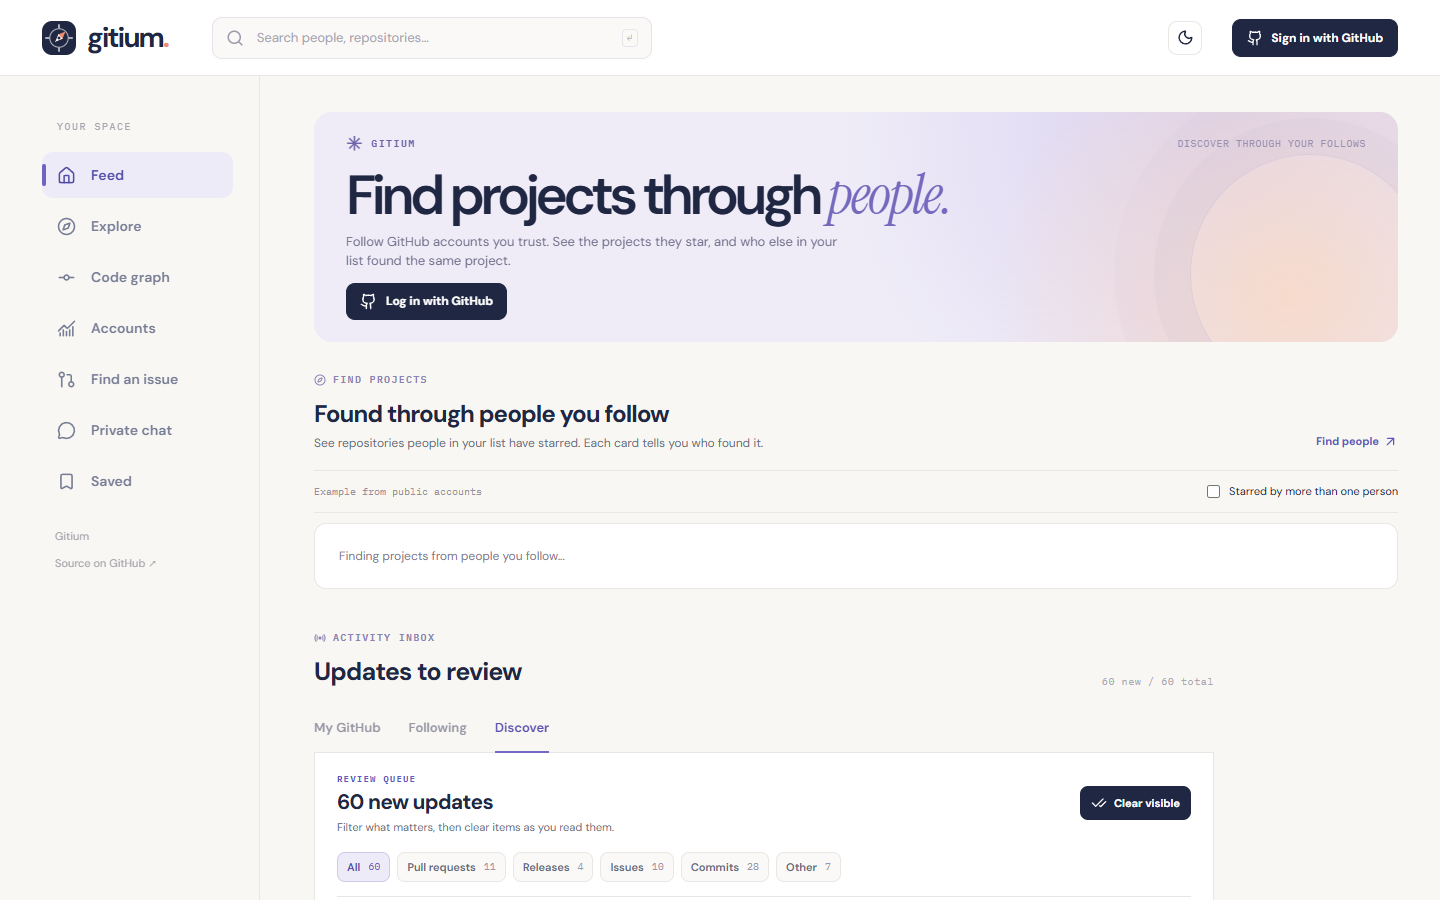
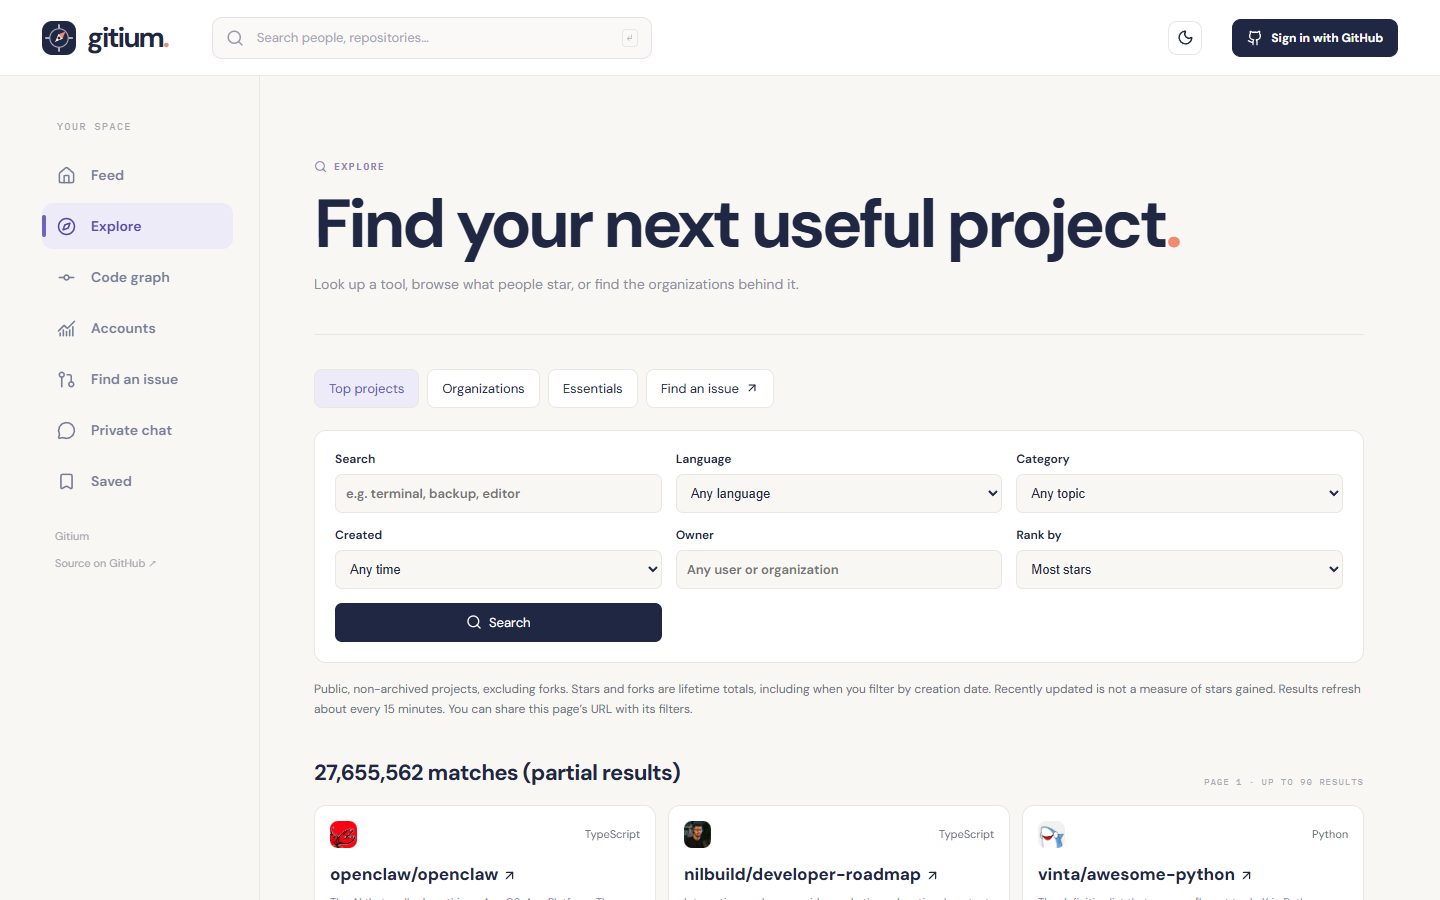
Update Gitium discovery feature and preview

diff --git a/index.html b/index.html
@@ -60,7 +60,7 @@
           <a class="project-card" href="clix/" aria-label="Open CLIx command reference"><div class="project-visual clix-visual"><span class="clix-big">&gt;_</span><div class="clix-lines mono"><span>$ find a command</span><span>$ read an example</span><span class="red">$ keep moving_</span></div><span class="visual-corner mono">IN THIS SITE</span></div><div class="project-body"><span class="project-type mono">COMMAND REFERENCE</span><h3>CLIx <span>↗</span></h3><p>I wanted one place to search commands and examples. CLIx is the reference I ended up building.</p><div class="project-tags mono"><span>COMMANDS</span><span>GUIDES</span></div></div></a>
           <a class="project-card" href="https://github.com/root-Manas/macaron" target="_blank" rel="noopener noreferrer"><div class="project-visual"><video autoplay muted loop playsinline preload="metadata"><source src="public/assets/Macaron.webm" type="video/webm"></video></div><div class="project-body"><span class="project-type mono">RECON</span><h3>Macaron <span>↗</span></h3><p>A Go tool that brings several recon steps into one workflow.</p><div class="project-tags mono"><span>GO</span><span>RECON</span></div></div></a>
           <a class="project-card" href="https://github.com/root-Manas/Relaydeck" target="_blank" rel="noopener noreferrer"><div class="project-visual"><img src="public/assets/relaydeck-preview.png?v=2" alt="Relaydeck dark local dashboard preview" loading="lazy" width="1200" height="600"></div><div class="project-body"><span class="project-type mono">DISCORD BOT</span><h3>Relaydeck <span>↗</span></h3><p>I rebuilt Tweecord as a bot for RSS, GitHub releases, Bluesky, and X with your own API access. Slash commands manage sources and channels; the local dashboard handles API settings and delivery history.</p><div class="project-tags mono"><span>DISCORD</span><span>NODE.JS</span><span>FEEDS</span></div></div></a>
-          <a class="project-card" href="https://gitium.vercel.app" target="_blank" rel="noopener noreferrer"><div class="project-visual"><img src="public/assets/gitium-preview.png" alt="Gitium project discovery preview" loading="lazy" width="1200" height="600"></div><div class="project-body"><span class="project-type mono">GITHUB SOCIAL APP · LIVE</span><h3>Gitium <span>↗</span></h3><p>I built Gitium to find repos through people I follow. You can import stars, explore commit graphs, compare account scores, find issues to contribute to, and chat in private rooms.</p></div></a>
+          <a class="project-card" href="https://gitium.vercel.app/explore" target="_blank" rel="noopener noreferrer"><div class="project-visual"><img src="public/assets/gitium-preview.png" alt="Gitium project and organization search" loading="lazy" width="1200" height="600"></div><div class="project-body"><span class="project-type mono">GITHUB DISCOVERY · LIVE</span><h3>Gitium <span>↗</span></h3><p>I built Gitium to find useful things on GitHub. Browse projects and organizations, try tools from the Essentials collection, explore their code, or find an issue to contribute to.</p></div></a>
           <article class="project-card"><div class="project-visual"><video autoplay muted loop playsinline preload="metadata"><source src="public/assets/Narrative.webm" type="video/webm"></video></div><div class="project-body"><span class="project-type mono">AN OLDER EXPERIMENT</span><h3>Narrative</h3><p>An ambitious interactive project that didn't work out. I'm keeping it here anyway.</p><div class="project-tags mono"><span>INTERACTIVE</span><span>STORYTELLING</span></div></div></article>
         </div>
       </section>
